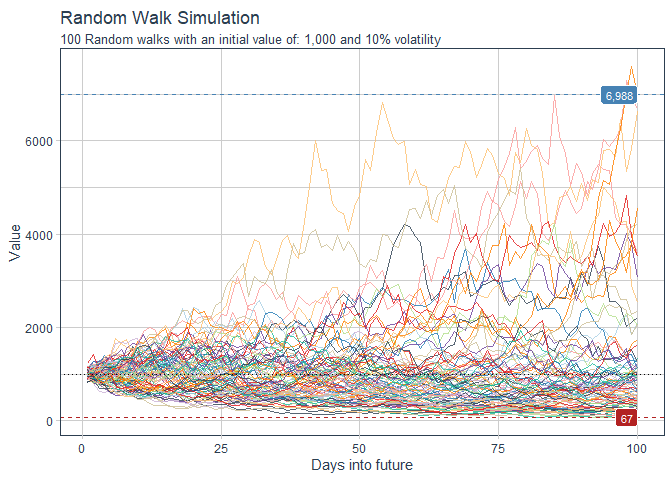
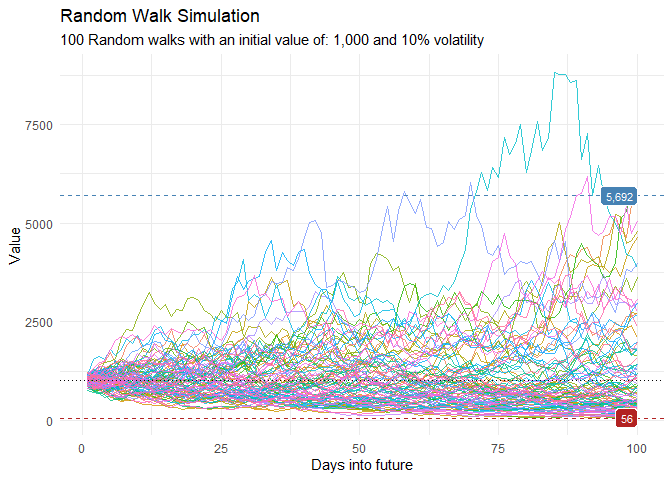
rebuild readme

diff --git a/README.md b/README.md
@@ -47,14 +47,14 @@ df <- ts_random_walk()
 
 head(df)
 #> # A tibble: 6 x 4
-#>     run     x        y cum_y
-#>   <dbl> <dbl>    <dbl> <dbl>
-#> 1     1     1  0.0112  1011.
-#> 2     1     2  0.105   1117.
-#> 3     1     3 -0.00253 1115.
-#> 4     1     4 -0.0574  1051.
-#> 5     1     5  0.132   1190.
-#> 6     1     6 -0.00582 1183.
+#>     run     x       y cum_y
+#>   <dbl> <dbl>   <dbl> <dbl>
+#> 1     1     1 -0.0786  921.
+#> 2     1     2 -0.0184  904.
+#> 3     1     3 -0.0644  846.
+#> 4     1     4 -0.182   692.
+#> 5     1     5 -0.0830  634.
+#> 6     1     6  0.0524  668.
 ```
 
 Now that the data has been generated, lets take a look at it.
